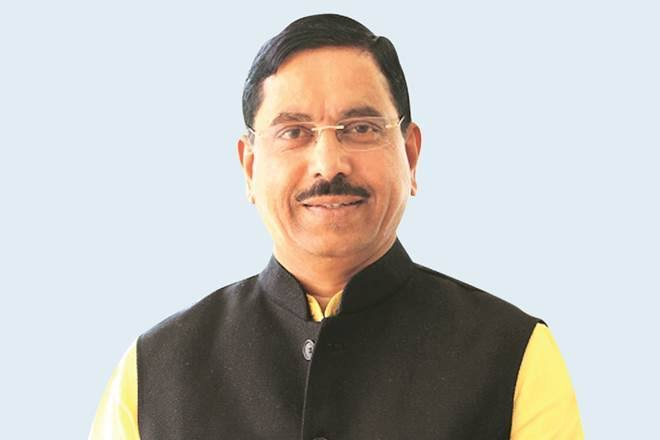
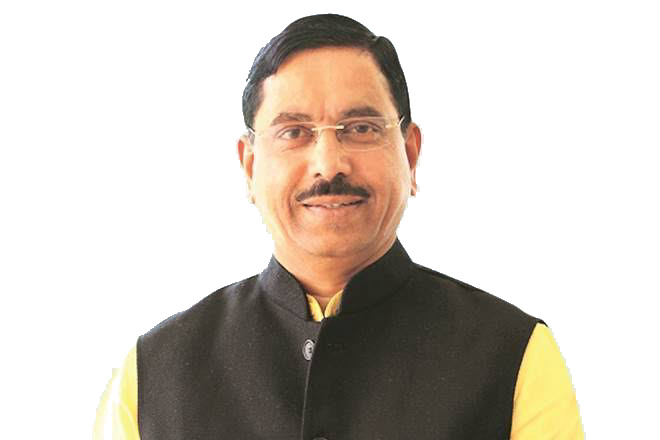
style(landing): enlarge minister photo and set pure white background

diff --git a/client/src/portals/consumer/pages/ConsumerLandingPage.tsx b/client/src/portals/consumer/pages/ConsumerLandingPage.tsx
@@ -505,7 +505,7 @@ export function ConsumerLandingPage() {
                   <img
                     src="/pj.jpeg"
                     alt={t("consumerLanding.leadership.ministerName")}
-                    className="w-40 h-48 object-cover object-top rounded-xl shadow-sm border border-border bg-muted"
+                    className="w-48 h-56 sm:w-52 sm:h-60 object-cover object-top rounded-xl shadow-sm border border-border bg-white"
                     onError={(e) => {
                       const target = e.currentTarget;
                       target.src = "/emblem.jpeg";
